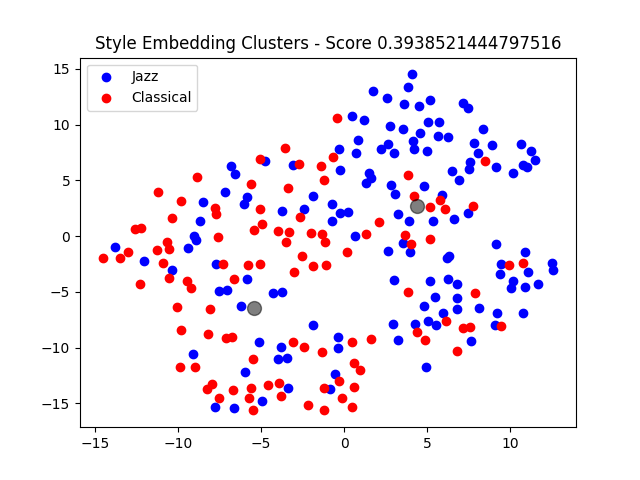
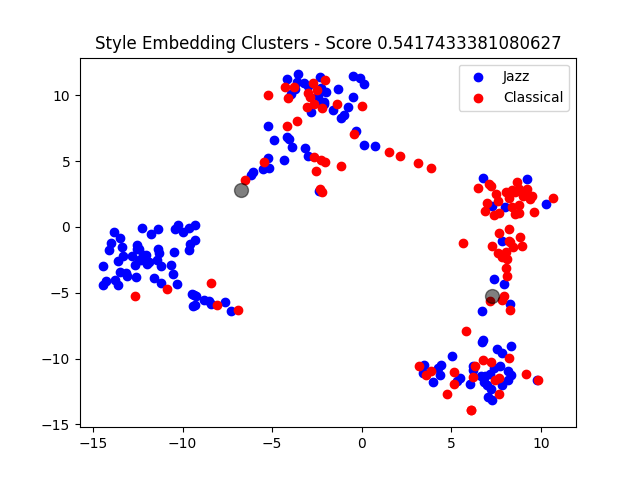
Add semi-hard triplets

diff --git a/utilities/run_model.py b/utilities/run_model.py
@@ -29,21 +29,18 @@ torch.autograd.set_detect_anomaly(True)
 
 
 def create_triplet_mask(labels):
-    # Expand labels to create a 3D mask for triplets
     labels = labels.unsqueeze(1)  # Shape: (batch_size, 1)
     mask_anchor_positive = labels == labels.T  # Anchor and Positive of
     mask_anchor_negative = labels != labels.T  # Anchor and Negative of
 
-    # Combine masks to find valid triplets
     valid_triplets = mask_anchor_positive.unsqueeze(2) & mask_anchor_negative.unsqueeze(1)
     valid_triplet_indices = valid_triplets.nonzero(as_tuple=False)
     valid_triplet_indices = valid_triplet_indices[valid_triplet_indices[:, 0] != valid_triplet_indices[:, 1]]
     return valid_triplet_indices
 
 
-def compute_triplet_distances(embeddings, labels, margin, top_k=10):
+def compute_triplet_distances(embeddings, labels, margin, return_all=True):
     triplet_indices = create_triplet_mask(labels)
-    print(len(triplet_indices))
     anchor_embeddings = embeddings[triplet_indices[:, 0]]
     positive_embeddings = embeddings[triplet_indices[:, 1]]
     negative_embeddings = embeddings[triplet_indices[:, 2]]
@@ -51,18 +48,21 @@ def compute_triplet_distances(embeddings, labels, margin, top_k=10):
     pos_dist = torch.nn.functional.pairwise_distance(anchor_embeddings, positive_embeddings, p=2)
     neg_dist = torch.nn.functional.pairwise_distance(anchor_embeddings, negative_embeddings, p=2)
 
+    semi_hard_triplet_mask = (neg_dist > pos_dist) & (neg_dist < pos_dist + margin)
     hard_triplet_mask = (pos_dist - neg_dist + margin > 0)
-    valid_indices = triplet_indices[hard_triplet_mask]
 
-    # Calculate distances for hard triplets and select top k hardest
-    if len(valid_indices) == 0:
-        return []
+    zero_loss_triplets = ~(semi_hard_triplet_mask | (pos_dist - neg_dist + margin > 0))
+    zero_loss_count = zero_loss_triplets.sum().item()
+    print("Zero Loss Triplets:", zero_loss_count)
 
-    distances = pos_dist[hard_triplet_mask] - neg_dist[hard_triplet_mask]
-    _, top_indices = distances.topk(min(top_k, len(distances)), largest=True)
-    top_triplet_indices = valid_indices[top_indices]
-    print(len(top_triplet_indices))
-    return top_triplet_indices
+    if return_all:
+        combined_mask = semi_hard_triplet_mask | hard_triplet_mask
+        valid_indices = triplet_indices[combined_mask]
+    else:
+        valid_indices = triplet_indices[semi_hard_triplet_mask] if semi_hard_triplet_mask.any() else triplet_indices[hard_triplet_mask]
+
+    print(f"Computing {len(valid_indices)} / {len(triplet_indices)}")
+    return valid_indices
 
 # train_epoch
 def train_epoch(cur_epoch, model, dataloader, loss, opt, lr_scheduler=None, print_modulus=1, feature_size=0):
@@ -113,6 +113,11 @@ def train_epoch(cur_epoch, model, dataloader, loss, opt, lr_scheduler=None, prin
                 embeddings = torch.cat(style_embeddings, dim=0)
                 labels = torch.tensor(labels)
                 top_hard_triplets = compute_triplet_distances(embeddings, labels, MARGIN)
+                if top_hard_triplets is None:
+                    print("CONTINUING")
+                    del style_embeddings, labels, embeddings
+                    torch.cuda.empty_cache()
+                    continue
                 top_anchor_embeddings = embeddings[top_hard_triplets[:, 0]]
                 top_positive_embeddings = embeddings[top_hard_triplets[:, 1]]
                 top_negative_embeddings = embeddings[top_hard_triplets[:, 2]]

diff --git a/triplet_tester.py b/triplet_tester.py
@@ -7,7 +7,7 @@ from torch.optim.lr_scheduler import LambdaLR
 from torch.utils.data import DataLoader
 from torch.optim import Adam
 
-from dataset.e_piano import create_epiano_datasets, compute_epiano_accuracy
+from dataset.e_piano import create_triplet_datasets, compute_epiano_accuracy
 
 from model.music_transformer import MusicTransformer
 from model.loss import SmoothCrossEntropyLoss
@@ -34,7 +34,7 @@ def main():
     print_train_args(args)
 
     ##### Datasets #####
-    train_dataset, val_dataset, test_dataset = create_epiano_datasets(args.input_dir, args.max_sequence)
+    train_dataset, val_dataset, test_dataset = create_triplet_datasets(args.input_dir, args.max_sequence)
 
     train_loader = DataLoader(train_dataset, batch_size=args.batch_size, num_workers=args.n_workers, shuffle=True)
     val_loader = DataLoader(val_dataset, batch_size=args.batch_size, num_workers=args.n_workers)

diff --git a/train.py b/train.py
@@ -20,7 +20,7 @@ from utilities.run_model import train_epoch, eval_model
 
 CSV_HEADER = ["Epoch", "Learn rate", "Avg Train loss", "Train Accuracy", "Train TL", "Avg Eval loss", "Eval accuracy", "Eval TL"]
 
-start = 1
+start = 0
 # Baseline is an untrained epoch that we evaluate as a baseline loss and accuracy
 BASELINE_EPOCH = -1
 # main
